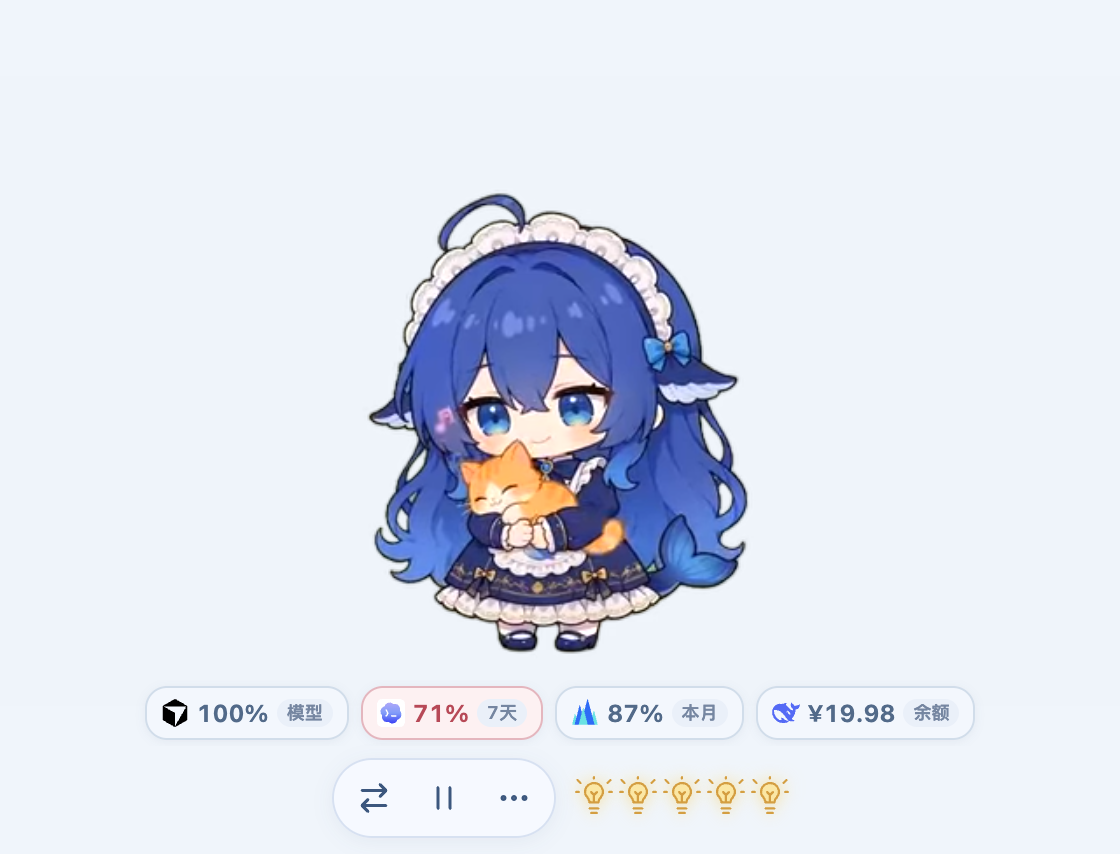
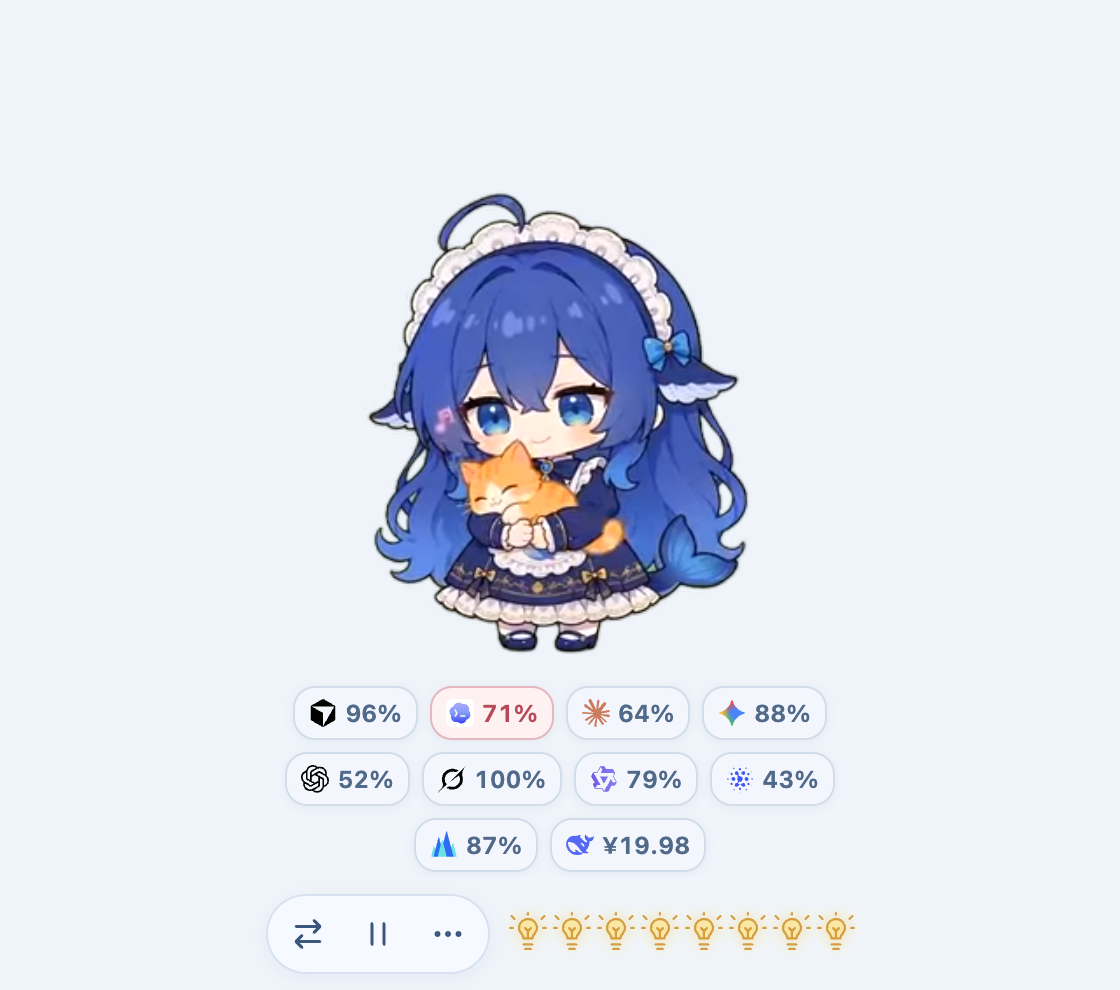
Refresh README screenshot with more providers and keep bulbs on one row

diff --git a/src/pet.css b/src/pet.css
@@ -15,7 +15,8 @@ button svg { width: 18px; height: 18px; fill: none; stroke: currentColor; stroke
 button[aria-pressed="true"] { color: #2469ba; background: #e0ecff; }
 button:hover { background: #e0ecff; }
 button:focus-visible { outline: 2px solid #517ddd; }
-#request-lights { display: flex; flex-wrap: wrap; gap: 4px; width: max-content; max-width: 160px; min-width: 18px; }
+#request-lights { display: flex; flex-wrap: nowrap; align-items: center; gap: 4px; width: max-content; min-width: 18px; }
+.bulb-more { color: #c98a1d; font-size: 12px; font-weight: 700; font-variant-numeric: tabular-nums; }
 #request-lights[data-visible="false"] { display: none; }
 .bulb { display: block; width: 18px; height: 24px; color: #a5b2c5; opacity: .65; }
 .bulb svg { width: 100%; height: 100%; fill: none; stroke: currentColor; stroke-width: 1.5; stroke-linecap: round; stroke-linejoin: round; overflow: visible; }
